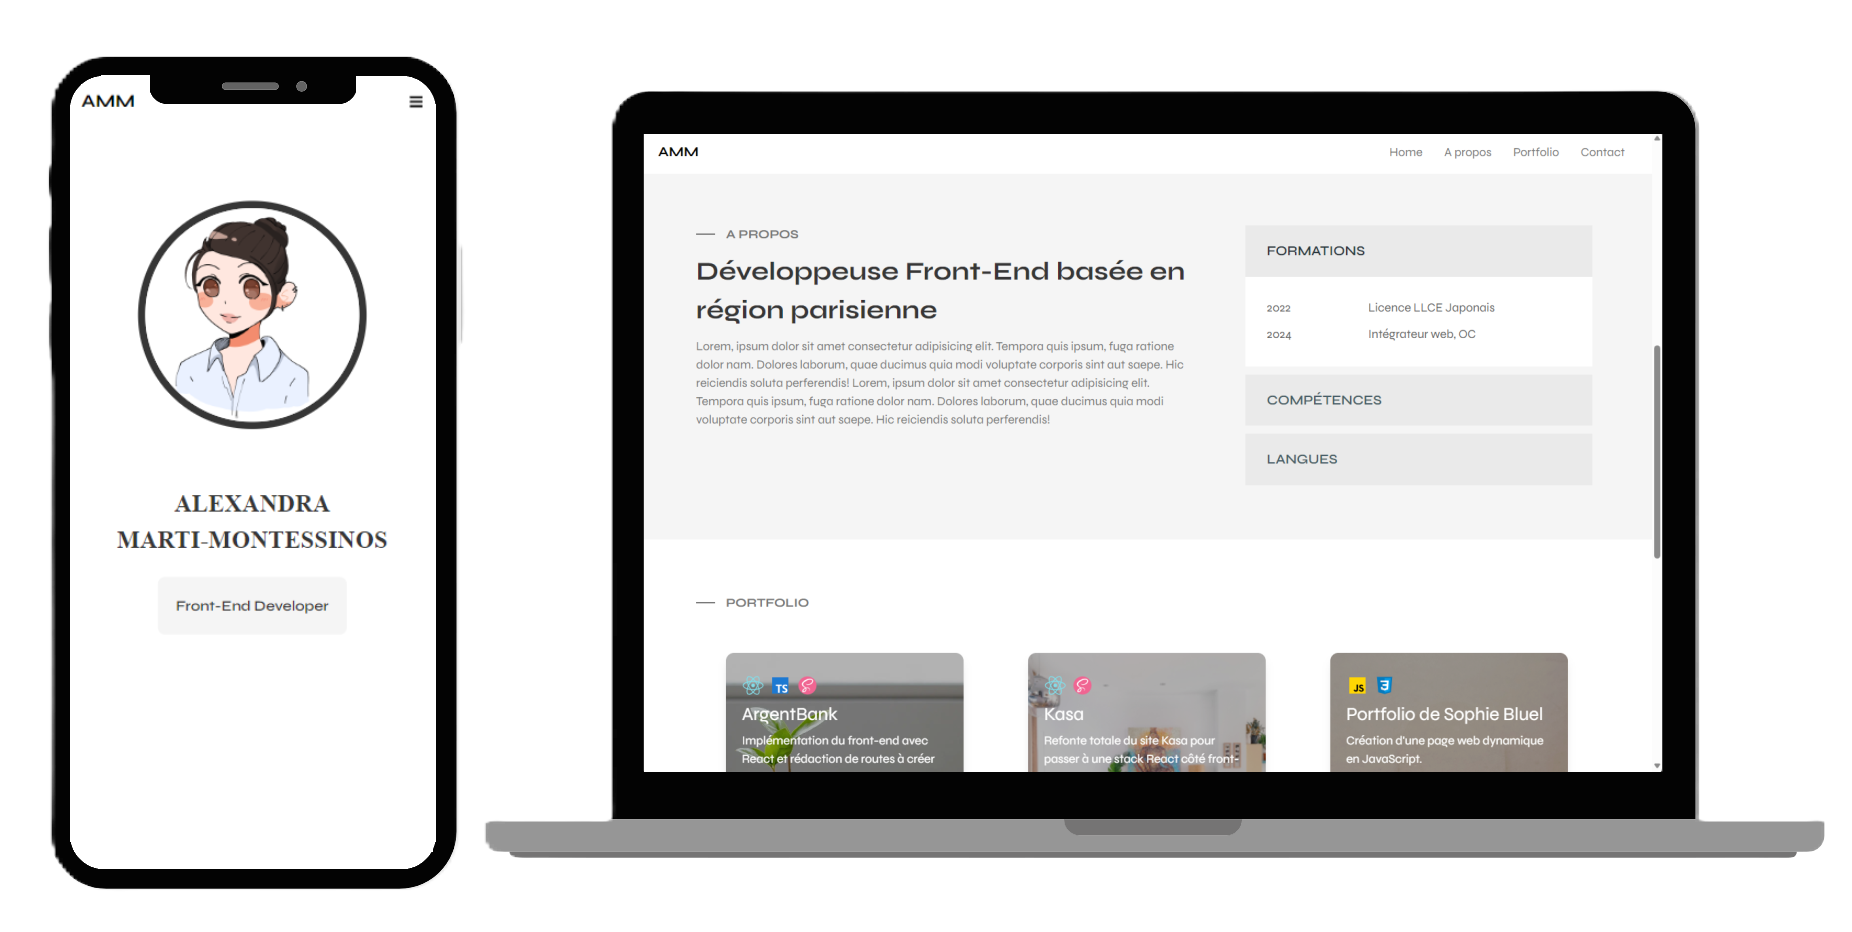
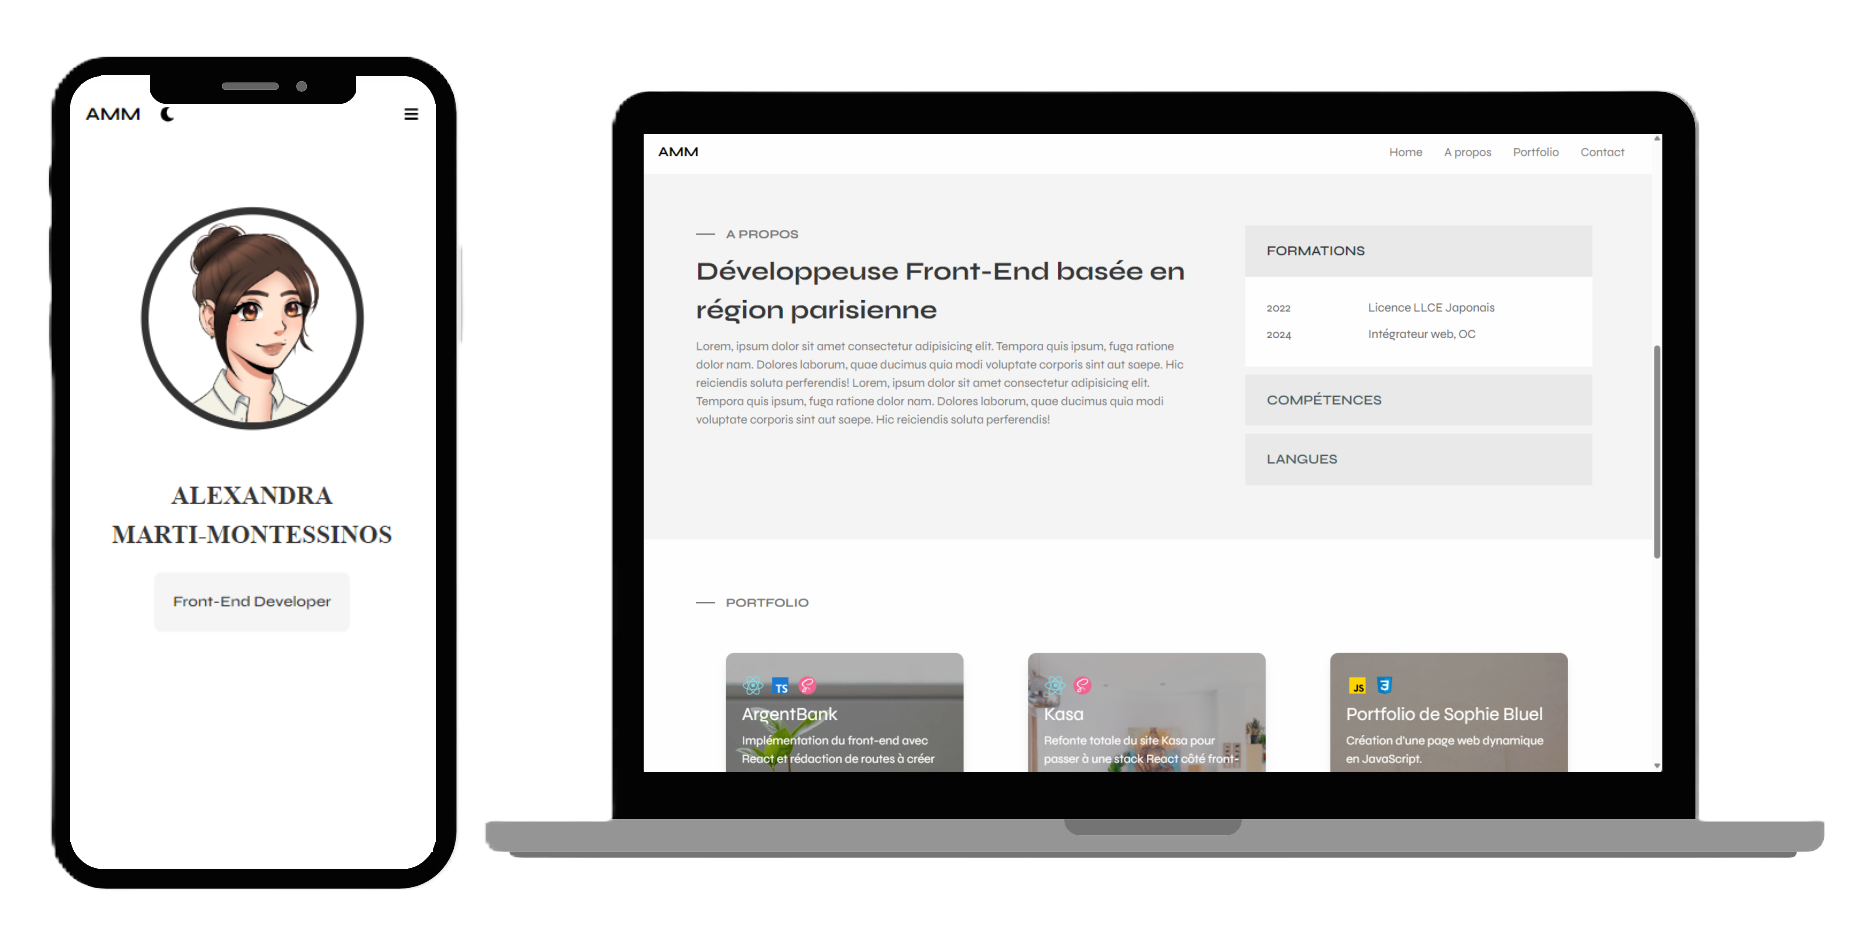
ograph + img

diff --git a/src/constants/index.tsx b/src/constants/index.tsx
@@ -9,7 +9,7 @@ import Debug from '../assets/icons/debug.png'
 import SEO from '../assets/icons/seo.png'
 import Accessibility from '../assets/icons/accessibility.png'
 
-import Portfolio from '../assets/2.png'
+import Portfolio from '../assets/jour.png'
 import Booki from '../assets/aw-creative.jpg'
 import Events from '../assets/headway-F2KRf_QfCqw-unsplash.png'
 import ArgentBank from '../assets/bank-tree.webp'
@@ -140,7 +140,7 @@ export const projects: Array<ProjectType> = [
       subtitle:
         "724 Events est une agence d'événementiel possédant un site vitrine.",
       content:
-        "Le premier développeur à avoir travaillé sur le projet a du abandonner le projet de ce fait quelques bugs étaient présent. Mon rôle a été de corrigé les bugs majeurs. J'ai également corrigé des bugs mineurs qui rendaient l'expérience utilisateur moins agréables. J'ai pu mettre en place des tests unitaires et en coriger certains sur ce projet.",
+        "Le premier développeur à avoir travaillé sur le projet a dû abandonner le projet, de ce fait quelques bugs étaient présents. Mon rôle a été de corriger les bugs majeurs. J'ai également corrigé des bugs mineurs qui rendaient l'expérience utilisateur moins agréable. J'ai pu mettre en place des tests unitaires et en corriger certains sur ce projet.",
       img: EventsDialog,
     },
   },
@@ -156,7 +156,7 @@ export const projects: Array<ProjectType> = [
       subtitle:
         "Sophie Bluel est une architecte d'intérieur qui partage son travail sur son site portfolio.",
       content:
-        "Mon rôle a été d'optimiser le site et de le rendre plus accessible. Pour l'optimisation j'ai notamment modifié les images et minifié le code. Pour l'accessibilité j'ai entre autre fait des modifications sur la sémantique HTML, le contraste des couleurs, ajouté l'attribut alt. J'ai pu m'aider des outils comme Wave ou Lighthouse.",
+        "Mon rôle a été d'optimiser le site et de le rendre plus accessible. Pour l'optimisation j'ai notamment modifié les images et minifié le code. Pour l'accessibilité j'ai entre autre fait des modifications sur la sémantique HTML, le contraste des couleurs, les attributs. J'ai pu m'aider des outils comme Wave ou Lighthouse.",
       img: NinaCarducciDialog,
     },
   },

diff --git a/index.html b/index.html
@@ -4,17 +4,41 @@
     <meta charset="UTF-8" />
     <link rel="icon" type="image/svg+xml" href="/vite.svg" />
     <link
-  rel="stylesheet"
-  href="https://cdnjs.cloudflare.com/ajax/libs/font-awesome/6.2.1/css/all.min.css"
-  integrity="sha512-MV7K8+y+gLIBoVD59lQIYicR65iaqukzvf/nwasF0nqhPay5w/9lJmVM2hMDcnK1OnMGCdVK+iQrJ7lzPJQd1w=="
-  crossorigin="anonymous"
-  referrerpolicy="no-referrer"
-/>
+      rel="stylesheet"
+      href="https://cdnjs.cloudflare.com/ajax/libs/font-awesome/6.2.1/css/all.min.css"
+      integrity="sha512-MV7K8+y+gLIBoVD59lQIYicR65iaqukzvf/nwasF0nqhPay5w/9lJmVM2hMDcnK1OnMGCdVK+iQrJ7lzPJQd1w=="
+      crossorigin="anonymous"
+      referrerpolicy="no-referrer"
+    />
+    <meta property="og:type" content="website" />
+    <meta property="og:url" content="https://portfolio-git-main-mutur16.vercel.app/" />
+    <meta
+      property="og:title"
+      content="Portfolio AMM, front-end developer"
+    />
+    <meta
+      property="og:description"
+      content="Find out more about my latest projects here."
+    />
+    <meta
+      property="og:image"
+      content="https://share.mealtime.io/api/shares/MyNjgxN/files/1767a389-7ef7-47dd-a3c8-5b7d86799c09?download=false"
+    />
+    <meta property="og:image:type" content="image/png" />
+    <meta property="og:image:alt" content="Illustration d'Alexandra" />
     <meta name="viewport" content="width=device-width, initial-scale=1.0" />
     <title>Portfolio AMM</title>
   </head>
   <body>
     <div id="root"></div>
     <script type="module" src="/src/main.tsx"></script>
+    <script type="application/ld+json">
+      {
+        "@context": "https://schema.org",
+        "@type": "Person",
+        "description": "Find out more about my latest projects here.",
+        "name": "Portfolio AMM, front-end developer."
+      }
+    </script>
   </body>
 </html>

diff --git a/src/containers/About.tsx b/src/containers/About.tsx
@@ -18,8 +18,11 @@ function About(): ReactNode {
           </h4>
           <span className="text-primary-light dark:text-primary text-sm-body lg:text-body">
             Bonjour et bienvenue sur mon portfolio. <hr className='border-none' />
-            Je me présente, Alexandra Marti-Montessinos, développeuse front-end basée en IDF. <hr className='border-none' />
-            J'ai travaillé dans divers domaine tel que l'esthétique et le tourisme. J'ai démarré mes expériences professionnelles au Japon en 2016 et suis rentrée en France en 2020. A cette période j'ai souhaité, tout en passant ma licence de japonais, prendre le temps de déterminer le domaine dans lequel j'aimerais vraiment travaillée. J'ai commencé à apprendre par moi-même les bases du développement web puis j'ai continuer sur une formation OpenClassroom en 2023 pour me conforter dans la voie que j'avais choisi. <hr className='border-none' />
+            Je me présente, Alexandra Marti-Montessinos, développeuse front-end basée en région parisienne. <hr className='border-none' />
+            J'ai travaillé dans divers domaines tels que l'esthétique et le tourisme. J'ai démarré mes expériences professionnelles au Japon en 2016 et suis rentrée en France en 2020. 
+            A cette période j'ai souhaité tout en passant ma licence de japonais, prendre le temps de déterminer le domaine dans lequel j'aimerais vraiment travailler. 
+            J'ai commencé à apprendre par moi-même les bases du développement web puis j'ai continué sur une formation OpenClassroom en 2023 pour me conforter dans la voie que j'avais choisi.
+            <hr className='border-none' />
             Retrouvez sur ce portfolio certains projets sur lesquels j'ai travaillé jusqu'à maintenant.
           </span>
         </div>

diff --git a/src/Portfolio.tsx b/src/Portfolio.tsx
@@ -4,26 +4,30 @@ import About from './containers/About'
 import Contact from './containers/Contact'
 import Projects from './containers/Projects'
 
-import pp from './assets/2.png'
+import imgJour from './assets/jour.png'
+import imgNuit from './assets/nuit.png'
 
 import './main.css'
 import './animation.css'
+import { useState } from 'react'
 
 function Portfolio() {
+  const [theme, setTheme] = useState(localStorage.getItem('theme')!)
+
   return (
     <>
-      <Header />
+      <Header setTheme={setTheme} />
       <div className="flex flex-col xl:flex-row h-screen px-4 overflow-hidden dark:bg-tertiary transition-all duration-500">
         <div className="flex flex-1 items-center justify-center xl:justify-end img-animation">
           <img
-            className="xl:w-2/4 sm:w-1/3 w-2/3 rounded-full border-8 border-purple mt-20 xl:mt-0 xl:mr-32"
-            src={pp}
-            alt="Illustration du portrait d'Alexandra"
+            className="xl:w-2/4 sm:w-1/3 w-2/3 rounded-full border-8 border-tertiary-light dark:border-primary mt-20 xl:mt-0 xl:mr-32 -rotate-3"
+            src={theme === 'dark' ? imgNuit : imgJour}
+            alt="Illustration d'Alexandra"
           />
         </div>
         <div className="flex flex-1 flex-col items-center xl:items-start justify-start xl:justify-center gap-5 xl:gap-10 text-animation">
           <div className="text-center xl:text-start">
-            <h2 className="2xl:text-4xl md:text-3xl text-2xl text-tertiary-light dark:text-white uppercase font-name font-bold">
+            <h2 className="2xl:text-4xl md:text-3xl text-2xl text-tertiary-light dark:text-primary uppercase font-name font-bold ">
               Alexandra <hr className="border-none" /> Marti-Montessinos
             </h2>
           </div>

diff --git a/src/components/Header.tsx b/src/components/Header.tsx
@@ -20,7 +20,7 @@ const navAnchors = [
   },
 ]
 
-function Header(): ReactNode {
+function Header({ setTheme }: HeaderProps): ReactNode {
   const [open, setOpen] = useState(false)
   const handleMenu = () => {
     setOpen((prev) => !prev)
@@ -29,24 +29,18 @@ function Header(): ReactNode {
     setOpen(false)
   }
 
-  const theme = localStorage.getItem('theme')
-  function applyTheme() {
-    if (theme === 'dark') {
-      document.documentElement.classList.add('dark')
-    }
-  }
-
-  applyTheme()
-
   function darkTheme() {
     document.documentElement.classList.add('dark')
     localStorage.setItem('theme', 'dark')
+    setTheme('dark')
   }
 
   function lightTheme() {
     document.documentElement.classList.remove('dark')
-    localStorage.removeItem('dark')
+    localStorage.setItem('theme', 'light')
+    setTheme('light')
   }
+
   return (
     <nav className="fixed top-0 w-full bg-white dark:bg-tertiary z-10 transition-all duration-500">
       <div className="mx-auto px-4 sm:px-6 lg:px-8">
@@ -113,3 +107,11 @@ function Header(): ReactNode {
 }
 
 export default Header
+
+type HeaderProps = {
+  setTheme: HeaderSetTheme
+}
+
+type HeaderSetTheme = {
+  (theme: 'dark' | 'light'): void
+}

diff --git a/src/containers/Contact.tsx b/src/containers/Contact.tsx
@@ -32,7 +32,7 @@ function Contact(): ReactNode {
               Mes réseaux :
             </p>
             <a href="https://github.com/Mutur16" target="_blank">
-              <IconButton className="rounded-full bg-purple">
+              <IconButton className="rounded-full bg-tertiary">
                 <i className="fab fa-github text-lg" />
               </IconButton>
             </a>
@@ -40,7 +40,7 @@ function Contact(): ReactNode {
               href="https://www.linkedin.com/in/alexandra-marti-montessinos-469a9a19b/"
               target="_blank"
             >
-              <IconButton className="rounded-full bg-purple">
+              <IconButton className="rounded-full bg-tertiary">
                 <i className="fab fa-linkedin text-lg" />
               </IconButton>
             </a>

diff --git a/src/main.tsx b/src/main.tsx
@@ -3,8 +3,20 @@ import ReactDOM from 'react-dom/client'
 import Portfolio from './Portfolio.tsx'
 import './main.css'
 
+const theme = localStorage.getItem('theme')
+if (
+  theme === 'dark' ||
+  (!('theme' in localStorage) &&
+    window.matchMedia('(prefers-color-scheme: dark)').matches)
+) {
+  document.documentElement.classList.add('dark')
+  localStorage.setItem('theme', 'dark')
+} else {
+  localStorage.setItem('theme', 'light')
+}
+
 ReactDOM.createRoot(document.getElementById('root')!).render(
   <React.StrictMode>
     <Portfolio />
-  </React.StrictMode>,
+  </React.StrictMode>
 )

diff --git a/tailwind.config.js b/tailwind.config.js
@@ -17,7 +17,6 @@ export default withMT({
         'secondary': '#303030', //bg clair
         'tertiary': '#202020', //bg foncé
         'accordion': '#404040',
-        'purple': '#5D3A73',
         'link': '#E0E0E0'
       },
       fontFamily: {
